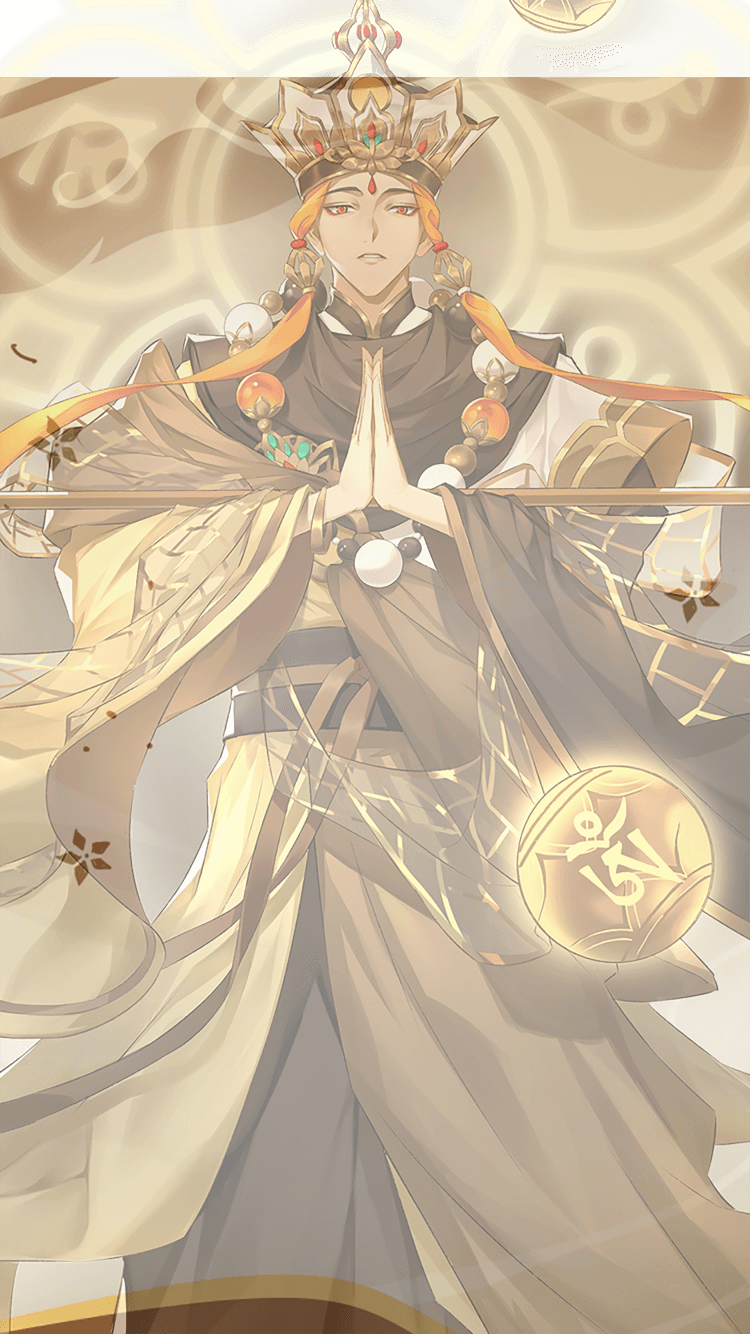
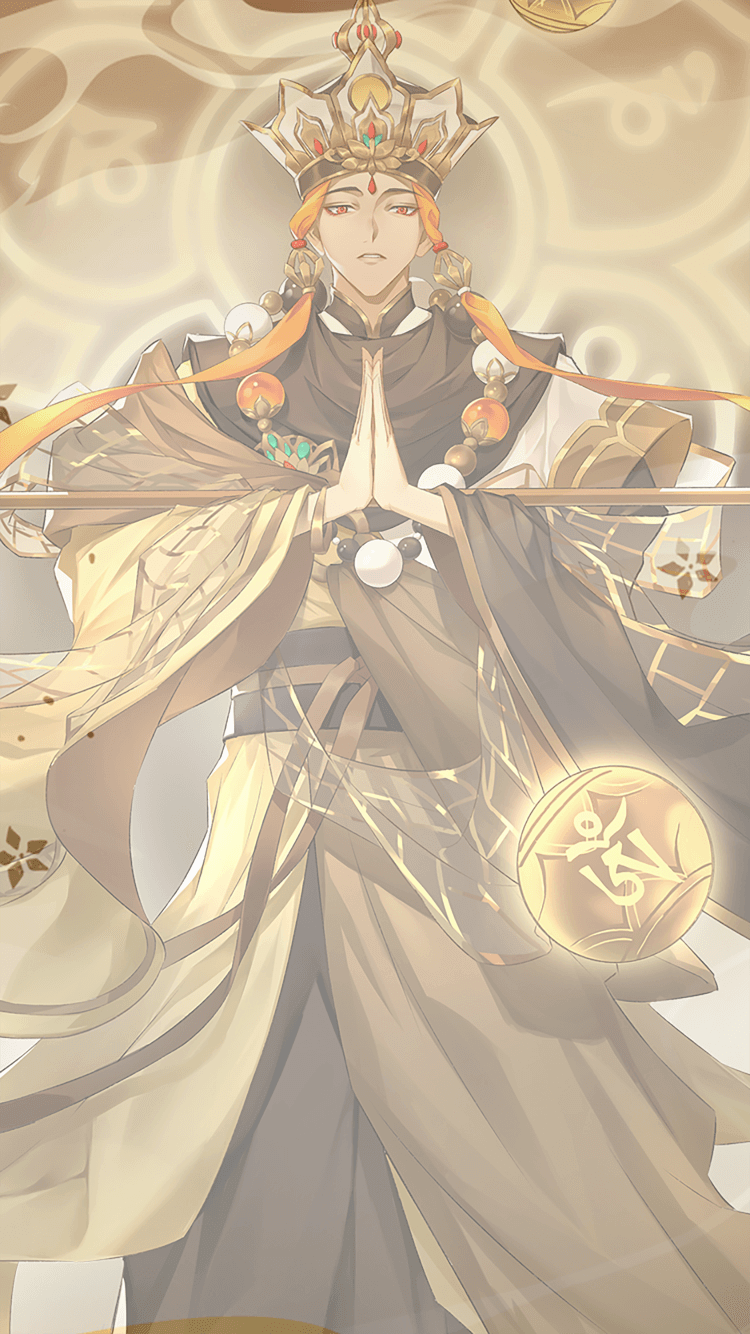
移动端动画

diff --git a/desktop/src/js/h5index.js b/desktop/src/js/h5index.js
@@ -8,49 +8,49 @@ $(function() {
   let swiper;
   const levelDescript = [{
     title: "荆棘流域·壹",
-    text: ["樵村渔浦，毁于一旦。", "渔夫村老，十不存一。", "妖兽天灾，堪如灭顶。", "昔日风光，何时再现。"]
+    text: ["樵村渔浦，毁于一旦", "渔夫村老，十不存一", "妖兽天灾，堪如灭顶", "昔日风光，何时再现"]
   }, {
     title: "疾行水路·贰",
-    text: ["渔村江流，一叶扁舟。", "青山绿水，无心留赏。", "妖兽危机，愈演愈切。", "心急如焚，船行似箭。"]
+    text: ["渔村江流，一叶扁舟", "青山绿水，无心留赏", "妖兽危机，愈演愈切", "心急如焚，船行似箭"]
   }, {
     title: "追踪原野·叁",
-    text: ["蛛丝马迹，逐寻原野。", "危机四伏，前路未知。", "枯苗望雨，望眼欲穿。", "重逢之时，指日可待。"]
+    text: ["蛛丝马迹，逐寻原野", "危机四伏，前路未知", "枯苗望雨，望眼欲穿", "重逢之时，指日可待"]
   }, {
     title: "观澜港口·肆",
-    text: ["繁荣之港，危情千钧。", "雾里看花，不明就里。", "未雨绸缪，百姓得存。", "厉兵秣马，御敌于外。"]
+    text: ["繁荣之港，危情千钧", "雾里看花，不明就里", "未雨绸缪，百姓得存", "厉兵秣马，御敌于外"]
   }, {
     title: "聚落废墟·伍",
-    text: ["三途聚落，昔日繁华。", "兽潮过处，草木不存。", "毁灭之后，却待新生。", "魑魅魍魉，我自迎上。"]
+    text: ["三途聚落，昔日繁华", "兽潮过处，草木不存", "毁灭之后，却待新生", "魑魅魍魉，我自迎上"]
   }, {
     title: "迷雾森林·陆",
-    text: ["幽林迷境，冒险伊始。", "密林深处，不知其名。", "妖兽遍野，终焉将至。", "偷天换日，背水一战。"]
+    text: ["幽林迷境，冒险伊始", "密林深处，不知其名", "妖兽遍野，终焉将至", "偷天换日，背水一战"]
   }, {
     title: "锦绣河山·柒",
-    text: ["秀山依旧，春风花草。", "溪云初起，四月芳菲。", "千鸟绝飞，万径无踪。", "山河仍在，草木已深。"]
+    text: ["秀山依旧，春风花草", "溪云初起，四月芳菲", "千鸟绝飞，万径无踪", "山河仍在，草木已深"]
   }, {
     title: "海岛遗境·捌",
-    text: ["昔日伙伴，不知所踪。", "寻踪觅迹，线索浮现。", "水清木华，信念不弃。", "塞翁失马，焉知非福。"]
+    text: ["昔日伙伴，不知所踪", "寻踪觅迹，线索浮现", "水清木华，信念不弃", "塞翁失马，焉知非福"]
   }, {
     title: "黍秀宫庭·玖",
-    text: ["曲径通幽，楼阁隐现。", "山间鄙视，难免天灾。", "悠游大地，齐人共难。", "钟神造化，阴阳昏晓。"]
+    text: ["曲径通幽，楼阁隐现", "山间鄙视，难免天灾", "悠游大地，齐人共难", "钟神造化，阴阳昏晓"]
   }, {
     title: "朝圣之路·拾",
-    text: ["可堪回首，神呀涉谷。", "佛性清净，何处尘埃。", "禅祠山下，梦魂所归。", "言遇劫火，千年怒潮。"]
+    text: ["可堪回首，神呀涉谷", "佛性清净，何处尘埃", "禅祠山下，梦魂所归", "言遇劫火，千年怒潮"]
   }, {
     title: "上古遗阵·拾壹",
-    text: ["人族纪元，几经磨炼。", "四面妖声，侵掠如火。", "上古遗阵，或为奇兵。", "异妖之示，福泽困城。"]
+    text: ["人族纪元，几经磨炼", "四面妖声，侵掠如火", "上古遗阵，或为奇兵", "异妖之示，福泽困城"]
   }, {
     title: "混乱之城·拾贰",
-    text: ["欲使其亡，先使其狂。", "宵小之徒，逐一浮现。", "大厦将倾，独力难挽。", "人事已尽，各安天命。"]
+    text: ["欲使其亡，先使其狂", "宵小之徒，逐一浮现", "大厦将倾，独力难挽", "人事已尽，各安天命"]
   }, {
     title: "御水宝涧·拾叁",
-    text: ["古阵之启，尚需奇物。", "珍稀灵石，少见于世。", "城主府库，或有留存。", "铤而走险，火中取栗。"]
+    text: ["古阵之启，尚需奇物", "珍稀灵石，少见于世", "城主府库，或有留存", "铤而走险，火中取栗"]
   }, {
     title: "黄泉酆都·拾肆",
-    text: ["彼岸花炽，谁匿香里。", "往歌如旧，离合知否。", "起忆无人，万里惘然。", "灯稀火寒，花叶不见。"]
+    text: ["彼岸花炽，谁匿香里", "往歌如旧，离合知否", "起忆无人，万里惘然", "灯稀火寒，花叶不见"]
   }, {
     title: "危机之城·拾伍",
-    text: ["妖临城下，御水之危。", "人心惶惶，满城风雨。", "阳城一笑，非我所念。", "浪里孤舟，干城之将。"]
+    text: ["妖临城下，御水之危", "人心惶惶，满城风雨", "阳城一笑，非我所念", "浪里孤舟，干城之将"]
   }]
   let data = {
     page: 1 // 当前页

diff --git a/desktop/src/page/h5index.html b/desktop/src/page/h5index.html
@@ -71,6 +71,9 @@
                 下载
               </div>
             </div> -->
+           <div class="clouds-top">
+            <img src="<%= require('../assets/img/bj1-1.png') %>" />
+           </div>
            <div class="img-box1"></div>
            <div class="img-box3"></div>
            <div class="img-box4"></div>
@@ -117,10 +120,10 @@
                 <div class="wz-describe-title">荆棘流域·壹</div>
                 <div class="hz-line"></div>
                 <div class="description-txt">
-                  <p>樵村渔浦，毁于一旦。</p>
-                  <p>渔夫村老，十不存一。</p>
-                  <p>妖兽天灾，堪如灭顶。</p>
-                  <p>昔日风光，何时再现。</p>
+                  <p>樵村渔浦，毁于一旦</p>
+                  <p>渔夫村老，十不存一</p>
+                  <p>妖兽天灾，堪如灭顶</p>
+                  <p>昔日风光，何时再现</p>
                 </div>
               </div>
             </div>

diff --git a/desktop/src/scss/h5index.css b/desktop/src/scss/h5index.css
@@ -18,6 +18,15 @@
   background: url("../assets/img/box1-1.png") no-repeat center;
   background-size: cover;
 }
+.box1 .clouds-top {
+  position: absolute;
+  animation: cloudtop1 2s infinite alternate;
+}
+.box1 .clouds-top img {
+  width: 100%;
+  opacity: 0.6;
+  display: block;
+}
 .box .head {
   width: 100%;
   height: 60px;
@@ -252,8 +261,6 @@
 .hero-img img {
   width: 100%;
   position: absolute;
-  bottom: 50%;
-  transform: translateY(50%);
 }
 .hero-img .hero-img-move {
   animation: heroImgMove 0.5s cubic-bezier(0.42, 0, 0.4, 0.79) forwards;
@@ -368,6 +375,7 @@
   }
   100% {
     bottom: 50%;
+    transform: translateY(50%);
   }
 }
 #map-coordinates {
@@ -493,4 +501,12 @@
   100% {
     transform: scale(1.1) translateY(2px);
   }
-} 
+}
+@keyframes cloudtop1 {
+  0% {
+    transform: scale(1);
+  }
+  100% {
+    transform: scale(1.1);
+  }
+}
